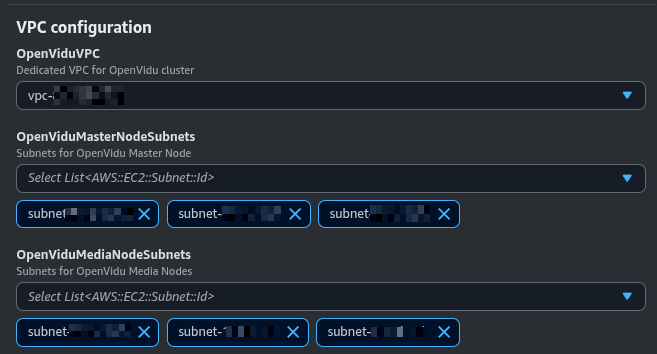
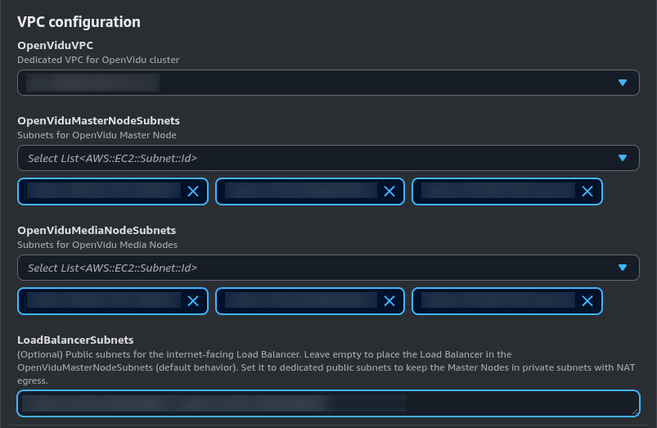
self-hosting/ha/aws: document LoadBalancerSubnets and SSM master-node access
Document the new optional LoadBalancerSubnets parameter in the VPC
Configuration section and update the warning so the master nodes may run in
private subnets when the internet-facing Load Balancer is placed in dedicated
public subnets. Add a note in EC2 Instance Configuration about reaching the
nodes through AWS Systems Manager Session Manager. Refresh vpc-config.png to
show the new parameter.

Assisted-by: claude-code - Anthropic - Claude Opus 4.8

diff --git a/docs/docs/self-hosting/ha/aws/install.md b/docs/docs/self-hosting/ha/aws/install.md
@@ -94,6 +94,8 @@ You need to specify some properties for the EC2 instances that will be created.
 
     By default, the parameter **OperatingSystem** is configured to use the latest LTS Ubuntu AMI, so ideally you don’t need to modify this.
 
+    Besides SSH with **KeyName**, the Master and Media Nodes register with [AWS Systems Manager](https://docs.aws.amazon.com/systems-manager/latest/userguide/session-manager.html), so you can open a shell on any node from the AWS console with Session Manager. This needs no public IP and no open SSH port, which is what lets you run the Master Nodes in private subnets (see [VPC Configuration](#vpc-configuration)).
+
 ### Media Nodes Autoscaling Group Configuration
 
 The number of Media Nodes can scale up or down based on the system load. You can configure the minimum and maximum number of Media Nodes and a target CPU utilization to trigger the scaling up or down.
@@ -131,10 +133,13 @@ In this section, you need to specify the VPC and Subnet configuration for the de
 
     The **OpenViduMediaNodeSubnets** specifies the subnets where the Media Nodes will be deployed. There is no limit on the number of subnets you can specify.
 
+    The optional **LoadBalancerSubnets** parameter specifies the public subnets where the internet-facing Load Balancer is placed. Leave it empty to place the Load Balancer in the **OpenViduMasterNodeSubnets** (the default behavior). Set it to dedicated public subnets when you want to run the Master Nodes in private subnets: the Load Balancer stays public and reachable while the Master Nodes reach the internet through a NAT gateway.
+
     !!! warning
 
         - It is recommended to deploy in a region with at least 4 availability zones and deploy the Master Nodes in 4 subnets, one in each availability zone. This is to ensure high availability.
-        - You must use public subnets for the Master Nodes and Media Nodes and have enabled the auto-assign public IP option.
+        - By default, use public subnets for the Master Nodes and Media Nodes with the auto-assign public IP option enabled.
+        - To keep the Master Nodes in private subnets, set **LoadBalancerSubnets** to public subnets for the Load Balancer and give the private subnets a NAT gateway for outbound traffic. Access the Master Nodes with Session Manager (see [EC2 Instance Configuration](#ec2-instance-configuration)) instead of SSH. The Media Nodes still need public subnets, since they receive WebRTC media directly from clients.
 
 ## Volumes Configuration
 
